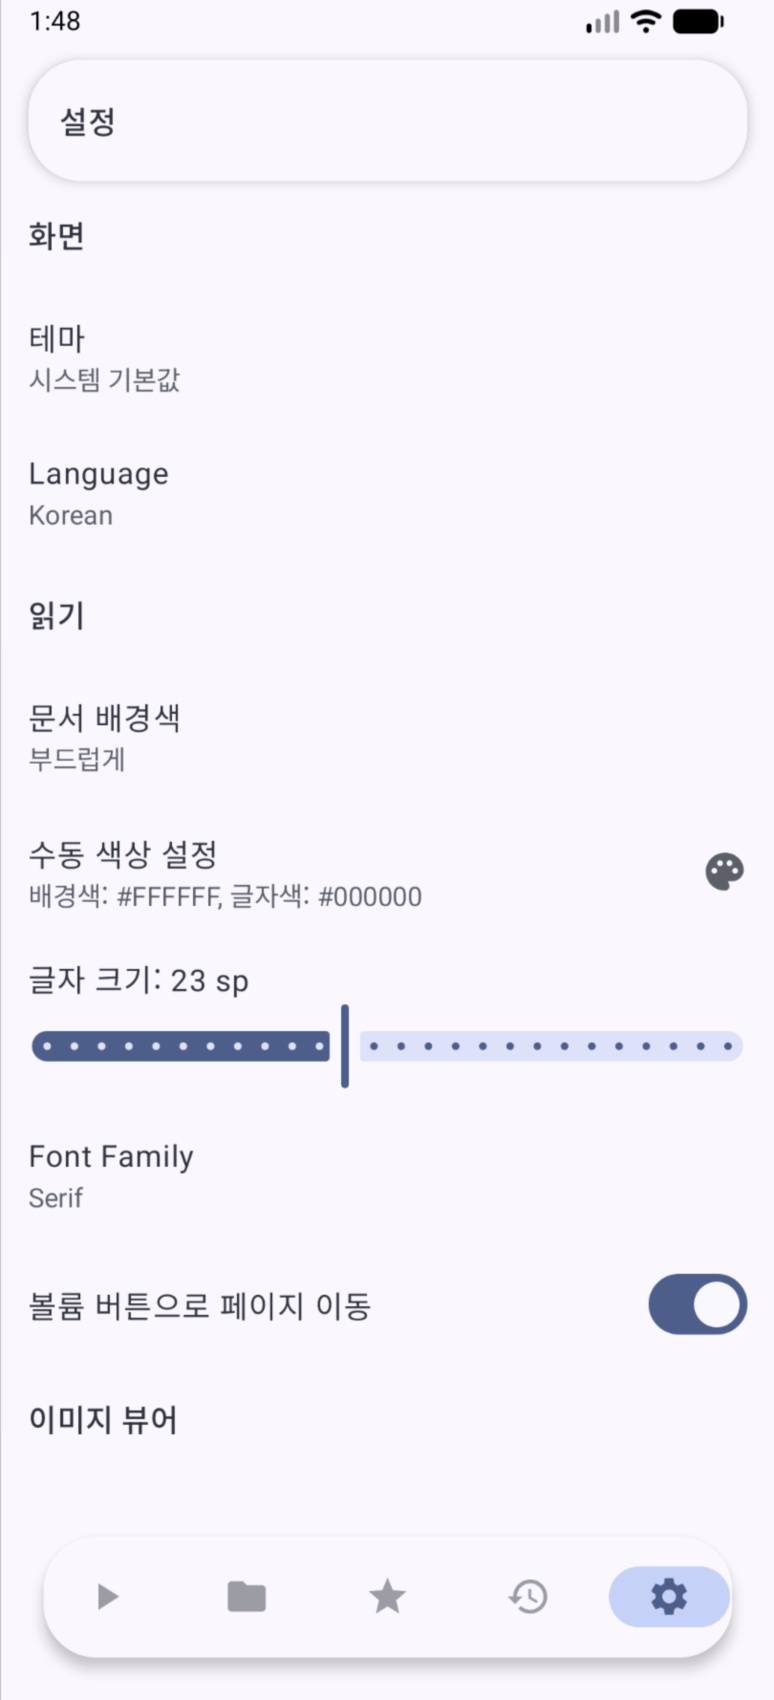
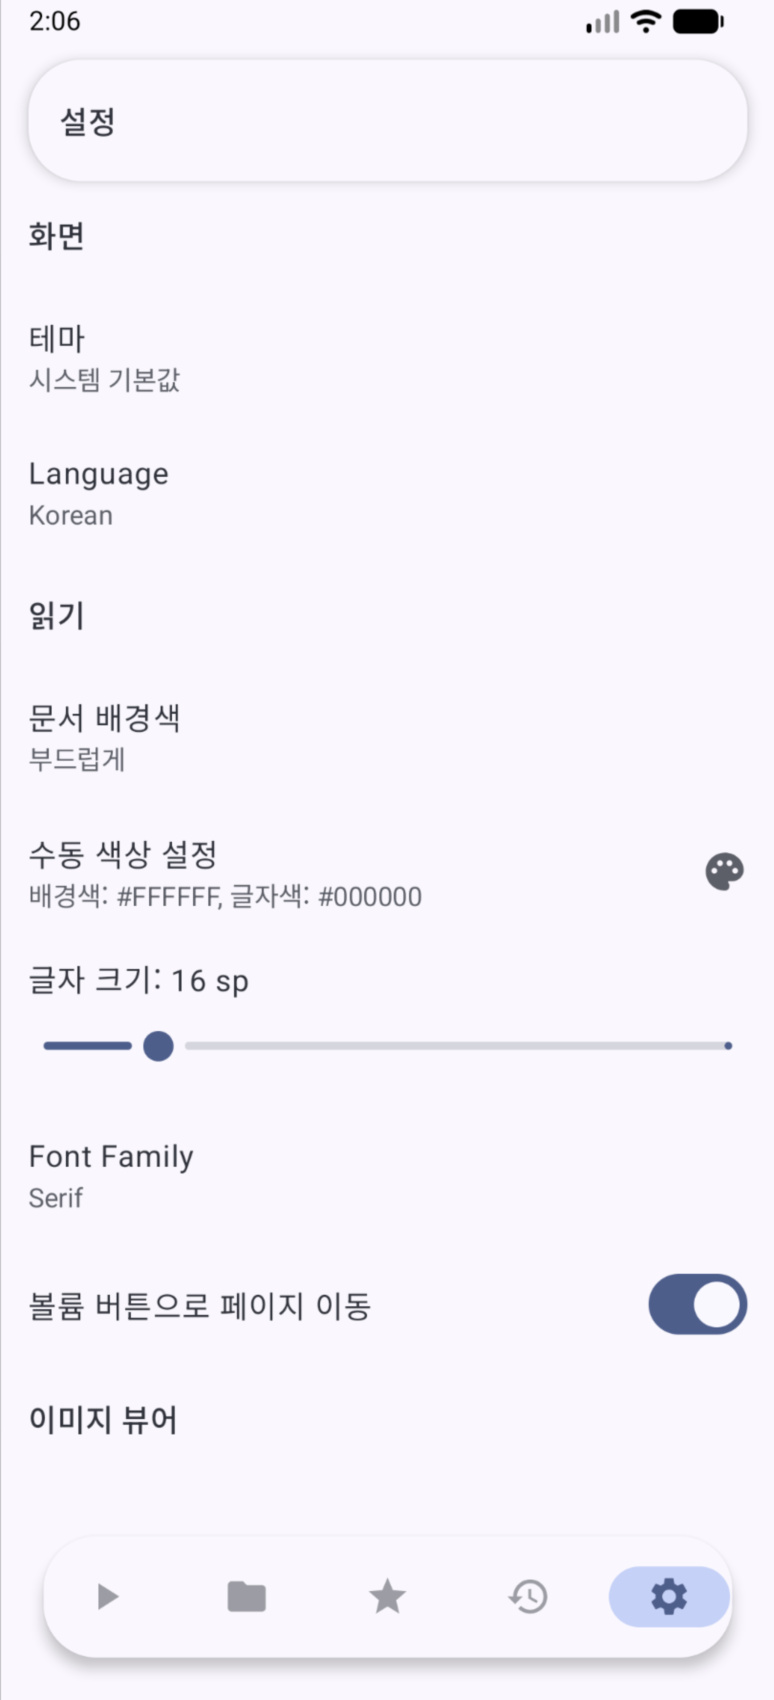
slider3

Changed region(s): [[0.031, 0.5612, 0.9612, 0.6547], [0.031, 0.0, 0.093, 0.0312]]

diff --git a/app/src/main/java/com/uviewer_android/ui/settings/SettingsScreen.kt b/app/src/main/java/com/uviewer_android/ui/settings/SettingsScreen.kt
@@ -21,6 +21,7 @@ import androidx.compose.runtime.*
 import androidx.compose.ui.Modifier
 import androidx.compose.ui.text.input.PasswordVisualTransformation
 import androidx.compose.foundation.text.KeyboardOptions
+import androidx.compose.foundation.interaction.MutableInteractionSource
 import androidx.compose.ui.text.input.ImeAction
 import androidx.compose.ui.text.input.KeyboardType
 import androidx.compose.ui.unit.dp
@@ -204,11 +205,29 @@ fun SettingsScreen(
             item {
                 Column(modifier = Modifier.padding(horizontal = 16.dp, vertical = 8.dp)) {
                     Text(stringResource(R.string.font_size_fmt, fontSize))
+                    val fontSizeInteractionSource = remember { MutableInteractionSource() }
                     Slider(
                         value = fontSize.toFloat(),
                         onValueChange = { viewModel.setFontSize(it.toInt()) },
                         valueRange = 12f..36f,
-                        steps = 24
+                        thumb = {
+                            SliderDefaults.Thumb(
+                                interactionSource = fontSizeInteractionSource,
+                                thumbSize = androidx.compose.ui.unit.DpSize(16.dp, 16.dp),
+                                colors = SliderDefaults.colors(thumbColor = MaterialTheme.colorScheme.primary)
+                            )
+                        },
+                        track = { sliderState ->
+                            SliderDefaults.Track(
+                                sliderState = sliderState,
+                                modifier = Modifier.height(4.dp),
+                                colors = SliderDefaults.colors(
+                                    activeTrackColor = MaterialTheme.colorScheme.primary,
+                                    inactiveTrackColor = MaterialTheme.colorScheme.outlineVariant.copy(alpha = 0.5f)
+                                )
+                            )
+                        },
+                        interactionSource = fontSizeInteractionSource
                     )
                 }
             }
@@ -258,11 +277,29 @@ fun SettingsScreen(
             item {
                 Column(modifier = Modifier.padding(horizontal = 16.dp, vertical = 8.dp)) {
                     Text(stringResource(R.string.sharpening_amount_fmt, sharpeningAmount))
+                    val sharpeningInteractionSource = remember { MutableInteractionSource() }
                     Slider(
                         value = sharpeningAmount.toFloat(),
                         onValueChange = { viewModel.setSharpeningAmount(it.toInt()) },
                         valueRange = 0f..10f,
-                        steps = 9
+                        thumb = {
+                            SliderDefaults.Thumb(
+                                interactionSource = sharpeningInteractionSource,
+                                thumbSize = androidx.compose.ui.unit.DpSize(16.dp, 16.dp),
+                                colors = SliderDefaults.colors(thumbColor = MaterialTheme.colorScheme.primary)
+                            )
+                        },
+                        track = { sliderState ->
+                            SliderDefaults.Track(
+                                sliderState = sliderState,
+                                modifier = Modifier.height(4.dp),
+                                colors = SliderDefaults.colors(
+                                    activeTrackColor = MaterialTheme.colorScheme.primary,
+                                    inactiveTrackColor = MaterialTheme.colorScheme.outlineVariant.copy(alpha = 0.5f)
+                                )
+                            )
+                        },
+                        interactionSource = sharpeningInteractionSource
                     )
                 }
             }

diff --git a/app/src/main/java/com/uviewer_android/ui/viewer/DocumentViewerScreen.kt b/app/src/main/java/com/uviewer_android/ui/viewer/DocumentViewerScreen.kt
@@ -1047,7 +1047,6 @@ fun FontSettingsDialog(
                         onValueChange = { sliderValue = it },
                         onValueChangeFinished = { viewModel.setFontSize(sliderValue.toInt()) },
                         valueRange = 12f..36f,
-                        steps = 23,
                         thumb = {
                             SliderDefaults.Thumb(
                                 interactionSource = fontSizeInteractionSource,
@@ -1122,7 +1121,6 @@ fun FontSettingsDialog(
                         value = marginValue.toFloat(),
                         onValueChange = { viewModel.setSideMargin(it.toInt()) },
                         valueRange = 0f..40f,
-                        steps = 40,
                         thumb = {
                             SliderDefaults.Thumb(
                                 interactionSource = marginInteractionSource,

diff --git a/app/src/main/java/com/uviewer_android/ui/viewer/ImageViewerScreen.kt b/app/src/main/java/com/uviewer_android/ui/viewer/ImageViewerScreen.kt
@@ -411,7 +411,6 @@ fun ImageViewerScreen(
                                                 value = uiState.sharpeningAmount.toFloat(),
                                                 onValueChange = { viewModel.setSharpeningAmount(it.toInt()) },
                                                 valueRange = 0f..10f,
-                                                steps = 9,
                                                 thumb = {
                                                     SliderDefaults.Thumb(
                                                         interactionSource = sharpeningInteractionSource,
